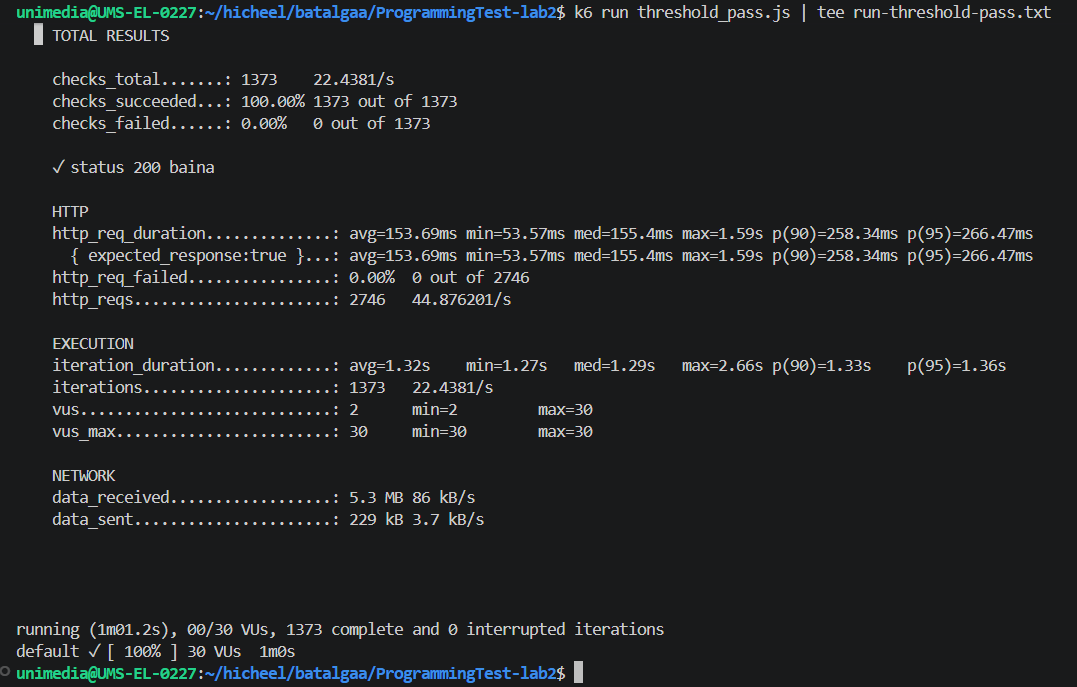
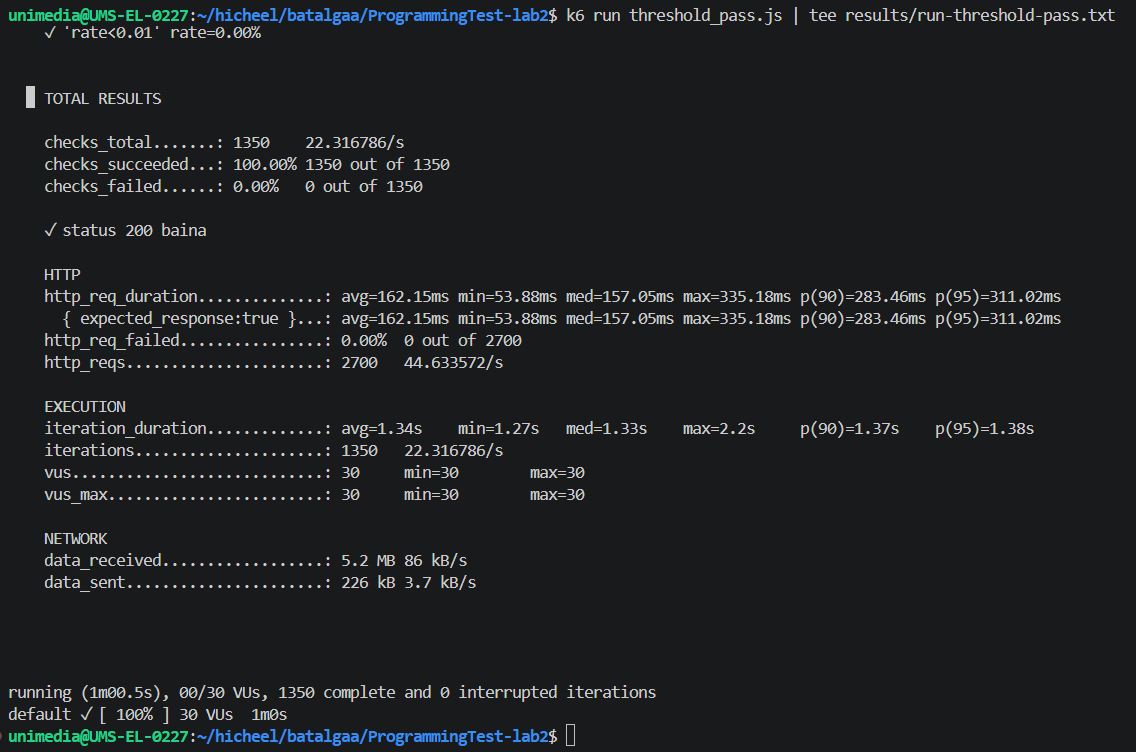
threshold_pass testiig zassan

Changed region(s): [[0.0, 0.0917, 0.9499, 0.7948], [0.0, 0.8865, 0.6128, 1.0], [0.0, 0.0, 0.9805, 0.0611]]

diff --git a/threshold_pass.js b/threshold_pass.js
@@ -4,7 +4,7 @@ export const options = {
   vus: 30,
   duration: "1m",
   thresholds: {
-    http_req_duration: ["p(95)<500"], // Baseline p95 (280.99) x 1.5 = 421.485ms tul 500ms baina
+    http_req_duration: ["p(95)<450"], // Baseline p95 (280.99) x 1.5 = 421.485ms tul 450ms baina
     http_req_failed: ["rate<0.01"], // Error rate < 1%
   },
 };
